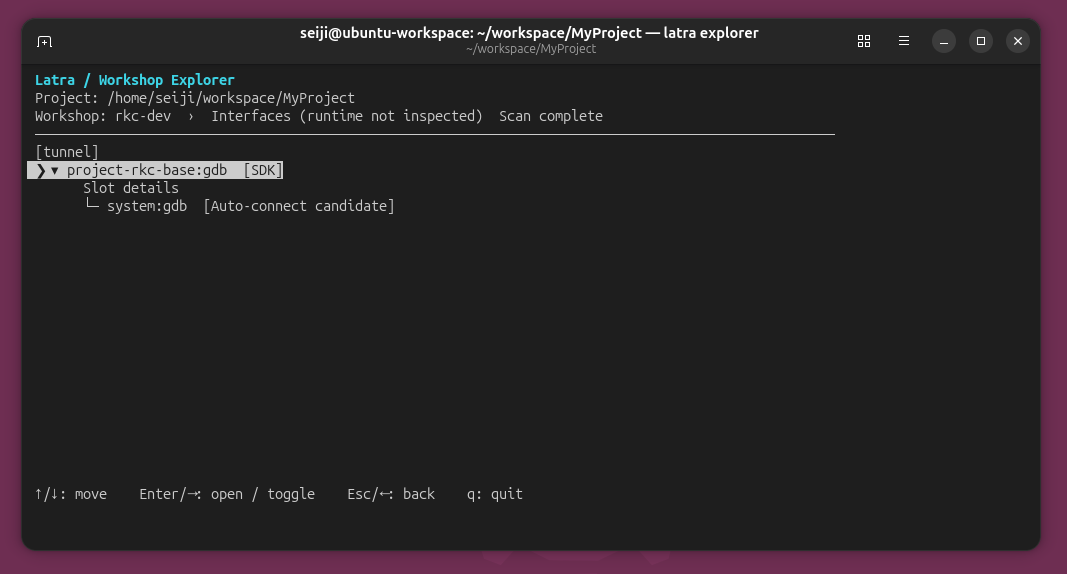
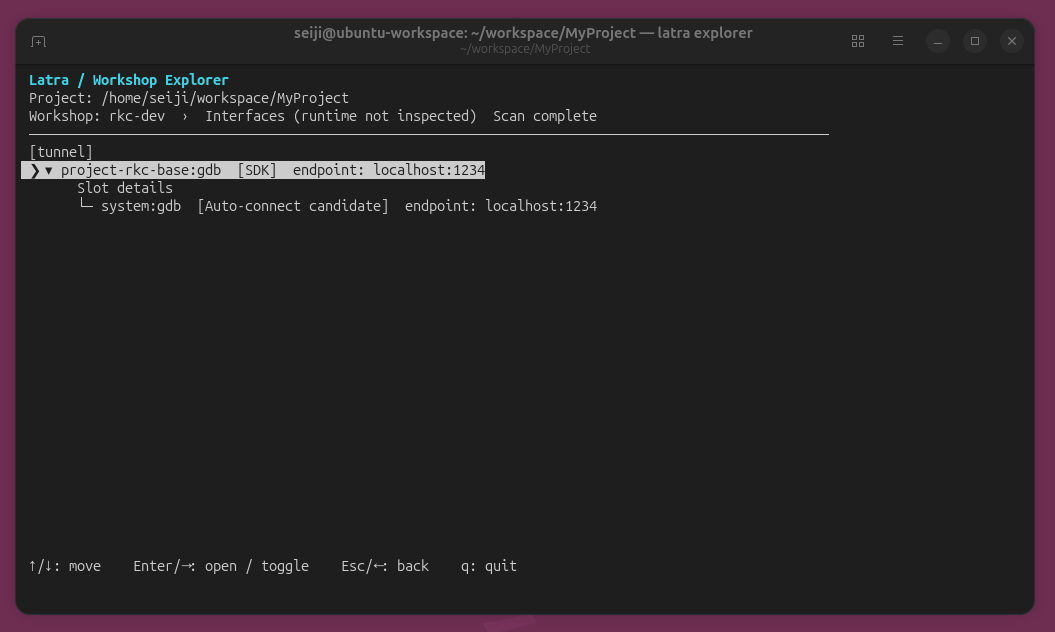
show interface endpoint

diff --git a/internal/cli/tui_interface_slots.go b/internal/cli/tui_interface_slots.go
@@ -1,6 +1,7 @@
 package cli
 
 import (
+	"encoding/json"
 	"sort"
 	"strings"
 
@@ -73,6 +74,7 @@ func tuiInterfaceSlotNodes(review interfaceexposure.Review) []tuiNode {
 			if basis == "Declared slots (not selected)" {
 				label += " · possible, not selected"
 			}
+			label += tunnelEndpointLabel(item)
 			entry := item
 			groups[index].plugs = append(groups[index].plugs, tuiNode{Kind: "exposure-review", Depth: 1, Name: interfaceview.Safe("└─ " + label), Review: &entry, SlotRef: ref, SlotBasis: basis})
 			attached = true
@@ -83,6 +85,7 @@ func tuiInterfaceSlotNodes(review interfaceexposure.Review) []tuiNode {
 			if item.Startup == "Delegated" {
 				label += " via " + item.Target + " [" + item.ViaStartup + "]"
 			}
+			label += tunnelEndpointLabel(item)
 			unassigned = append(unassigned, tuiNode{Kind: "exposure-review", Name: interfaceview.Safe(label), Review: &entry})
 		}
 	}
@@ -116,7 +119,7 @@ func tuiInterfaceSlotNodes(review interfaceexposure.Review) []tuiNode {
 			}
 			children = append(children, tuiNode{Header: true, Depth: 1, Name: message})
 		}
-		label := group.ref + "  [" + slot.Source + "]"
+		label := group.ref + "  [" + slot.Source + "]" + tunnelEndpointLabel(slot)
 		node := tuiNode{Kind: "slot-group", Directory: true, Expanded: true, Name: interfaceview.Safe(label), Children: children}
 		nodes = append(nodes, node)
 		nodes = append(nodes, children...)
@@ -129,4 +132,35 @@ func tuiInterfaceSlotNodes(review interfaceexposure.Review) []tuiNode {
 		nodes = append(nodes, tuiNode{Header: true, Name: "No interfaces declared"})
 	}
 	return nodes
+}
+
+// tunnelEndpointLabel displays only the declared endpoint, not a runtime address.
+func tunnelEndpointLabel(item interfaceexposure.Item) string {
+	if item.Type != "tunnel" {
+		return ""
+	}
+	var value any
+	if err := json.Unmarshal([]byte(item.Value), &value); err != nil {
+		return "  endpoint: unavailable"
+	}
+	switch declaration := value.(type) {
+	case nil:
+		return "  endpoint: not specified"
+	case string:
+		if declaration == "tunnel" {
+			return "  endpoint: not specified"
+		}
+	case map[string]any:
+		endpoint, exists := declaration["endpoint"]
+		if !exists {
+			return "  endpoint: not specified"
+		}
+		if text, ok := endpoint.(string); ok {
+			if text == "" {
+				return "  endpoint: \"\""
+			}
+			return "  endpoint: " + text
+		}
+	}
+	return "  endpoint: unavailable"
 }

diff --git a/internal/cli/tui_interface_slots_test.go b/internal/cli/tui_interface_slots_test.go
@@ -51,3 +51,27 @@ func TestInterfaceSlotsManualCandidatesAreNotSelected(t *testing.T) {
 		t.Fatalf("expected two possible slots, got %d", count)
 	}
 }
+
+func TestInterfaceTunnelEndpoints(t *testing.T) {
+	review := interfaceexposure.Review{Items: []interfaceexposure.Item{
+		{Kind: "Slot", SDK: "provider", Name: "gdb", Type: "tunnel", Source: "SDK", Value: `{"interface":"tunnel","endpoint":"[::1]:1234/udp"}`},
+		{Kind: "Plug", SDK: "system", Name: "gdb", Type: "tunnel", Startup: "Auto-connect candidate", Target: "provider:gdb", Value: `{"interface":"tunnel","endpoint":"/tmp/gdb.sock"}`},
+		{Kind: "Plug", SDK: "system", Name: "other", Type: "tunnel", Startup: "Manual required", Value: `{"interface":"tunnel"}`},
+		{Kind: "Slot", SDK: "provider", Name: "invalid", Type: "tunnel", Source: "SDK", Value: `{"endpoint":123}`},
+		{Kind: "Slot", SDK: "provider", Name: "control", Type: "tunnel", Source: "SDK", Value: `{"endpoint":"127.0.0.1:1234\u001b[31m"}`},
+		{Kind: "Slot", SDK: "provider", Name: "mount", Type: "mount", Source: "SDK", Value: `{"endpoint":"ignore"}`},
+	}}
+	var names []string
+	for _, node := range tuiInterfaceSlotNodes(review) {
+		names = append(names, node.Name)
+	}
+	view := strings.Join(names, "\n")
+	for _, want := range []string{"provider:gdb  [SDK]  endpoint: [::1]:1234/udp", "system:gdb  [Auto-connect candidate]  endpoint: /tmp/gdb.sock", "system:other  [Manual required]  endpoint: not specified", "provider:invalid  [SDK]  endpoint: unavailable"} {
+		if !strings.Contains(view, want) {
+			t.Errorf("missing %q in:\n%s", want, view)
+		}
+	}
+	if strings.Contains(view, "\x1b") || strings.Contains(view, "endpoint: ignore") {
+		t.Fatalf("unsafe or non-tunnel endpoint in:\n%s", view)
+	}
+}
